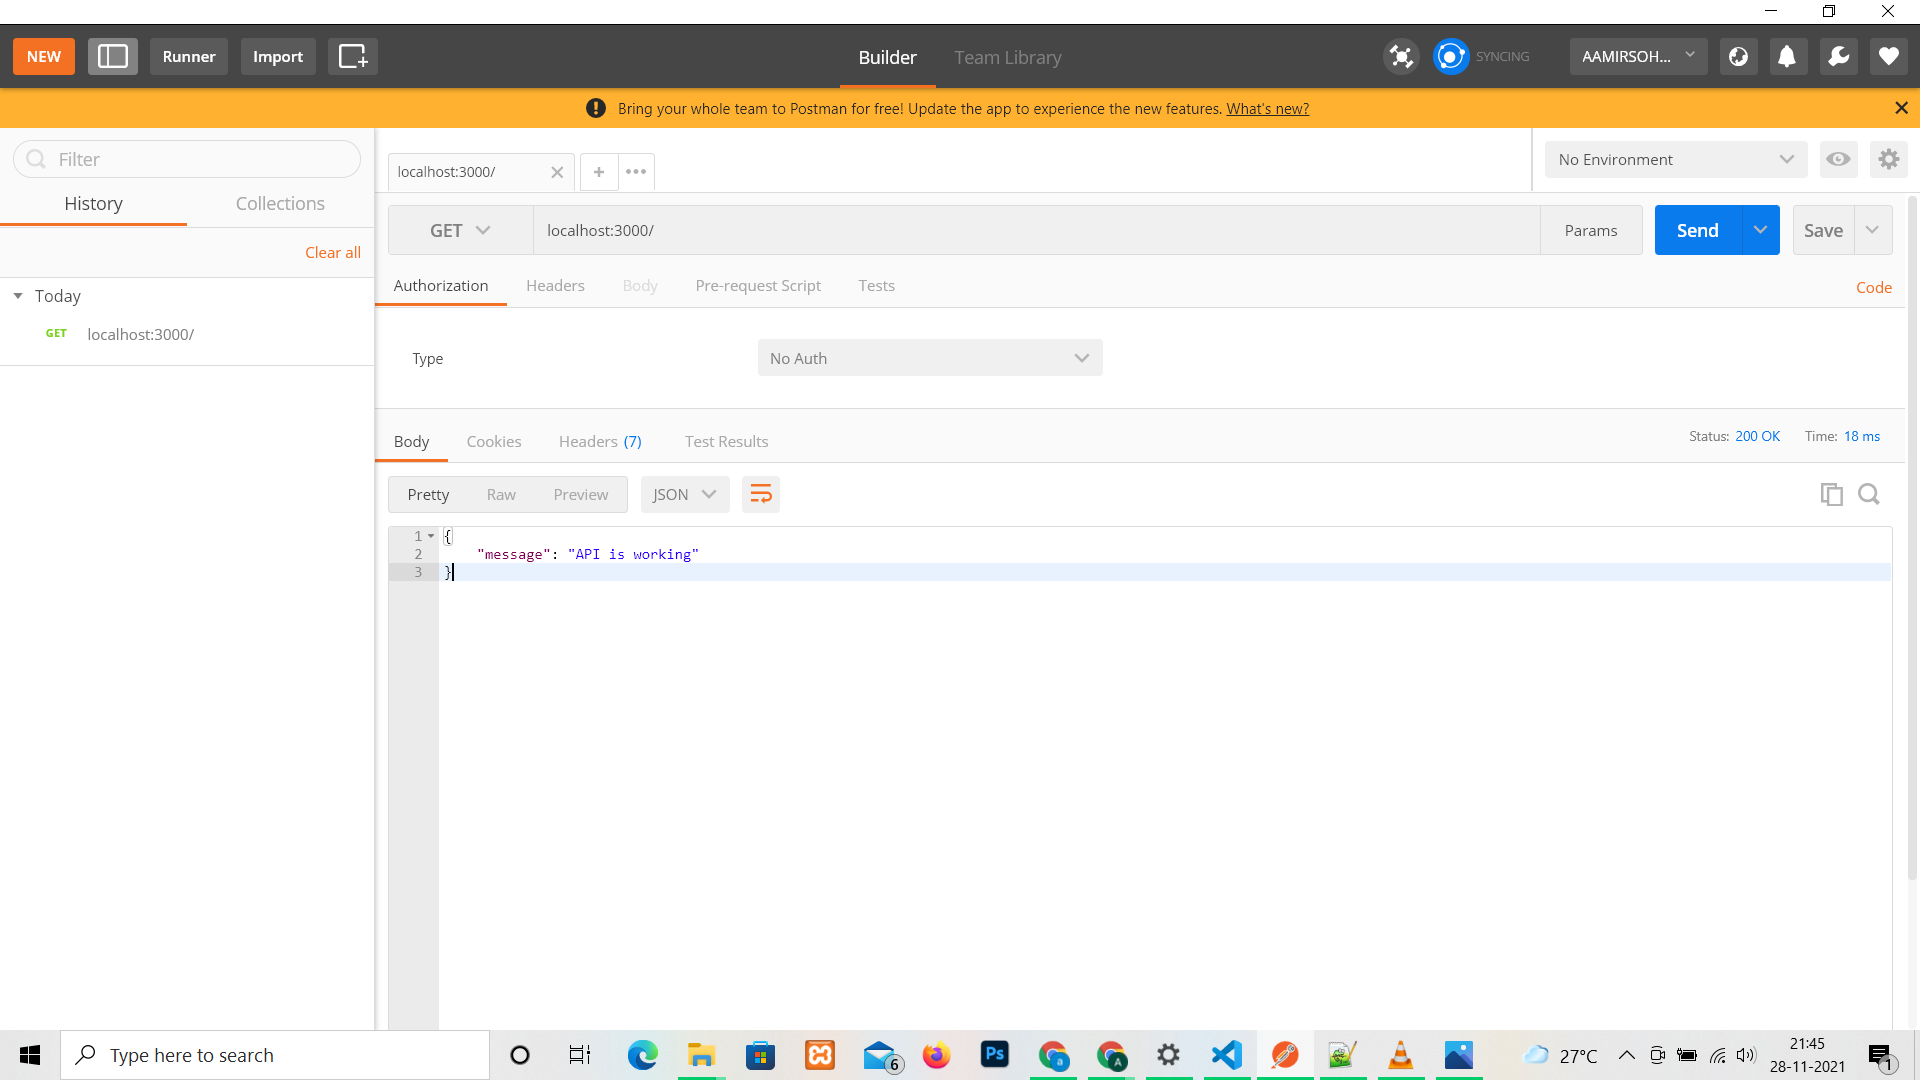
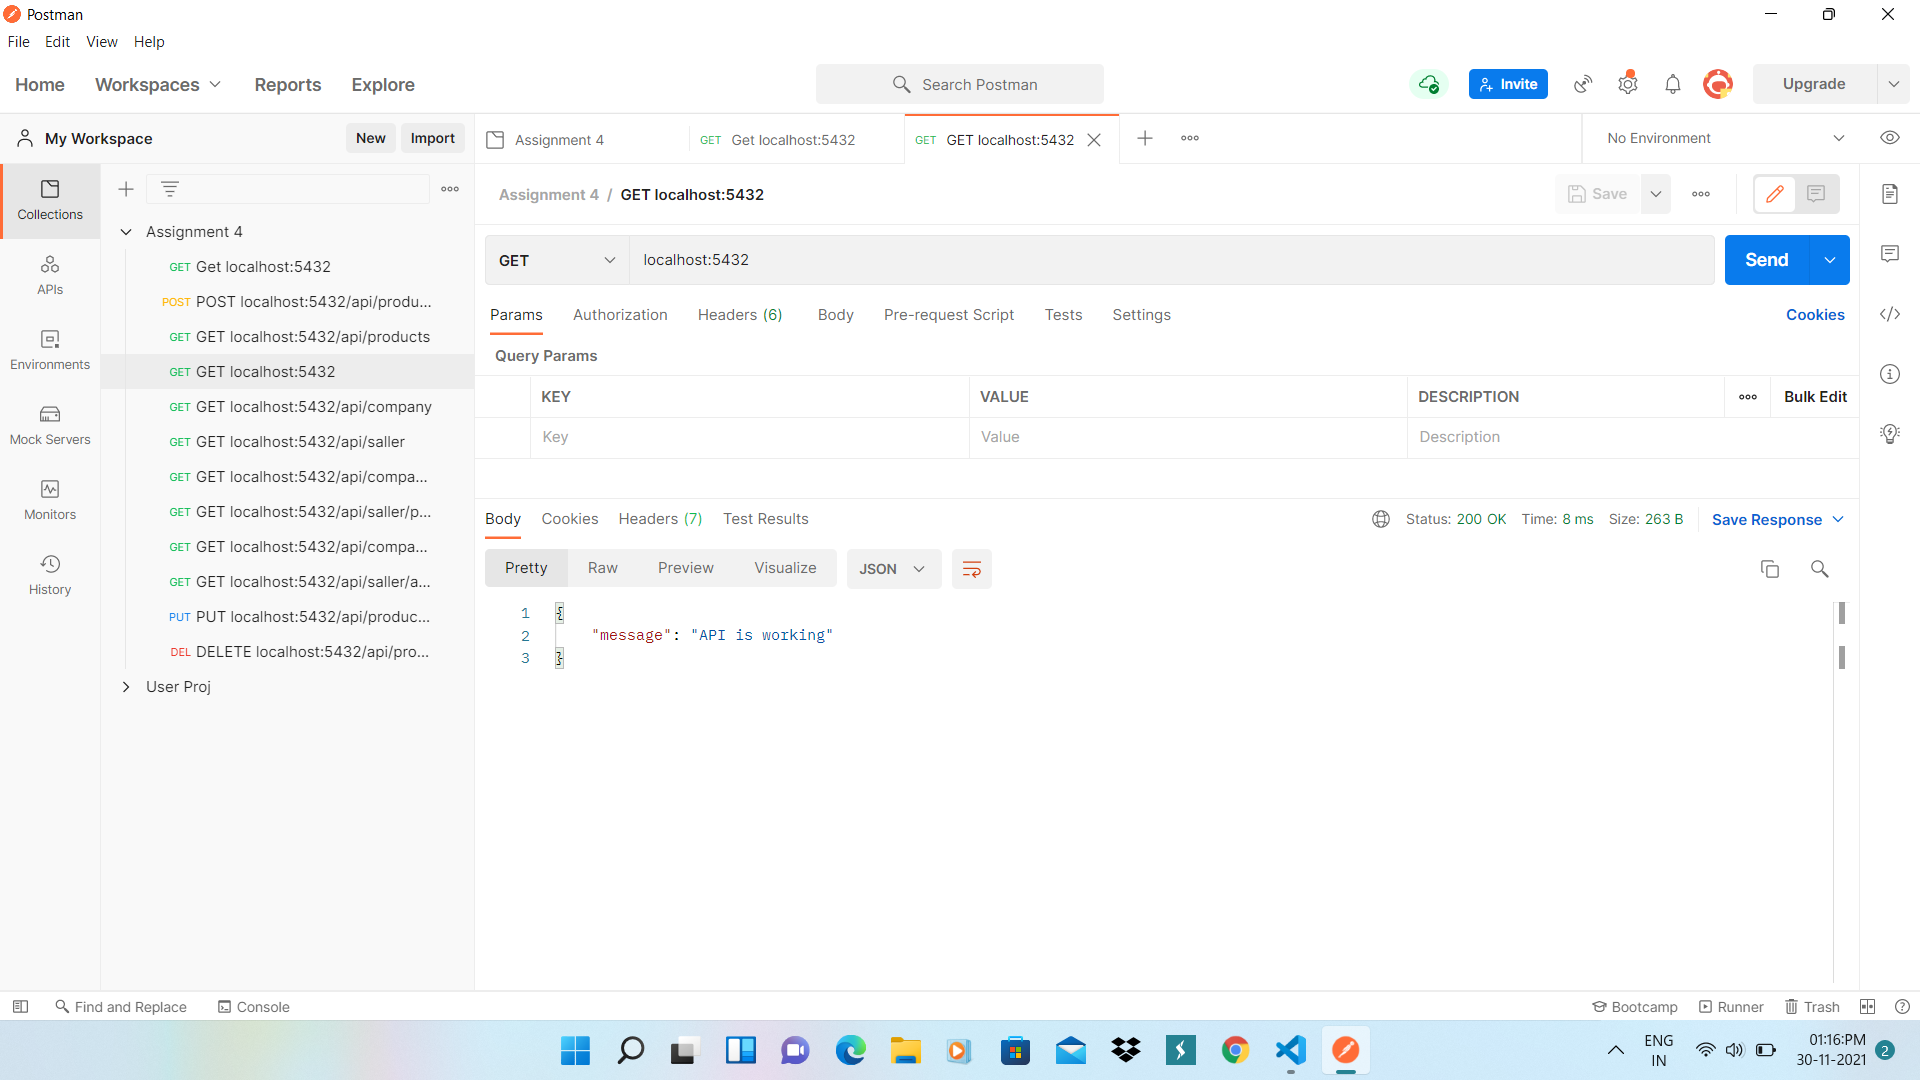
Final Submit

diff --git a/index.js b/index.js
@@ -3,7 +3,7 @@ const companys = require('./companys');
 const products = require('./products');
 const sallers = require('./sallers');
 const app = express()
-const port = 3000
+const port = 5432
 const { router } = require("express").Router();
 app.use(express.json())
 
@@ -227,4 +227,4 @@ app.get('/api/saller', (req, res) => {
     })
 })
 
-app.listen(port, () => console.log(`Example app listening on port ${port}!`))
+app.listen(port, () => console.log(`Example app Running on port ${port}!`))
